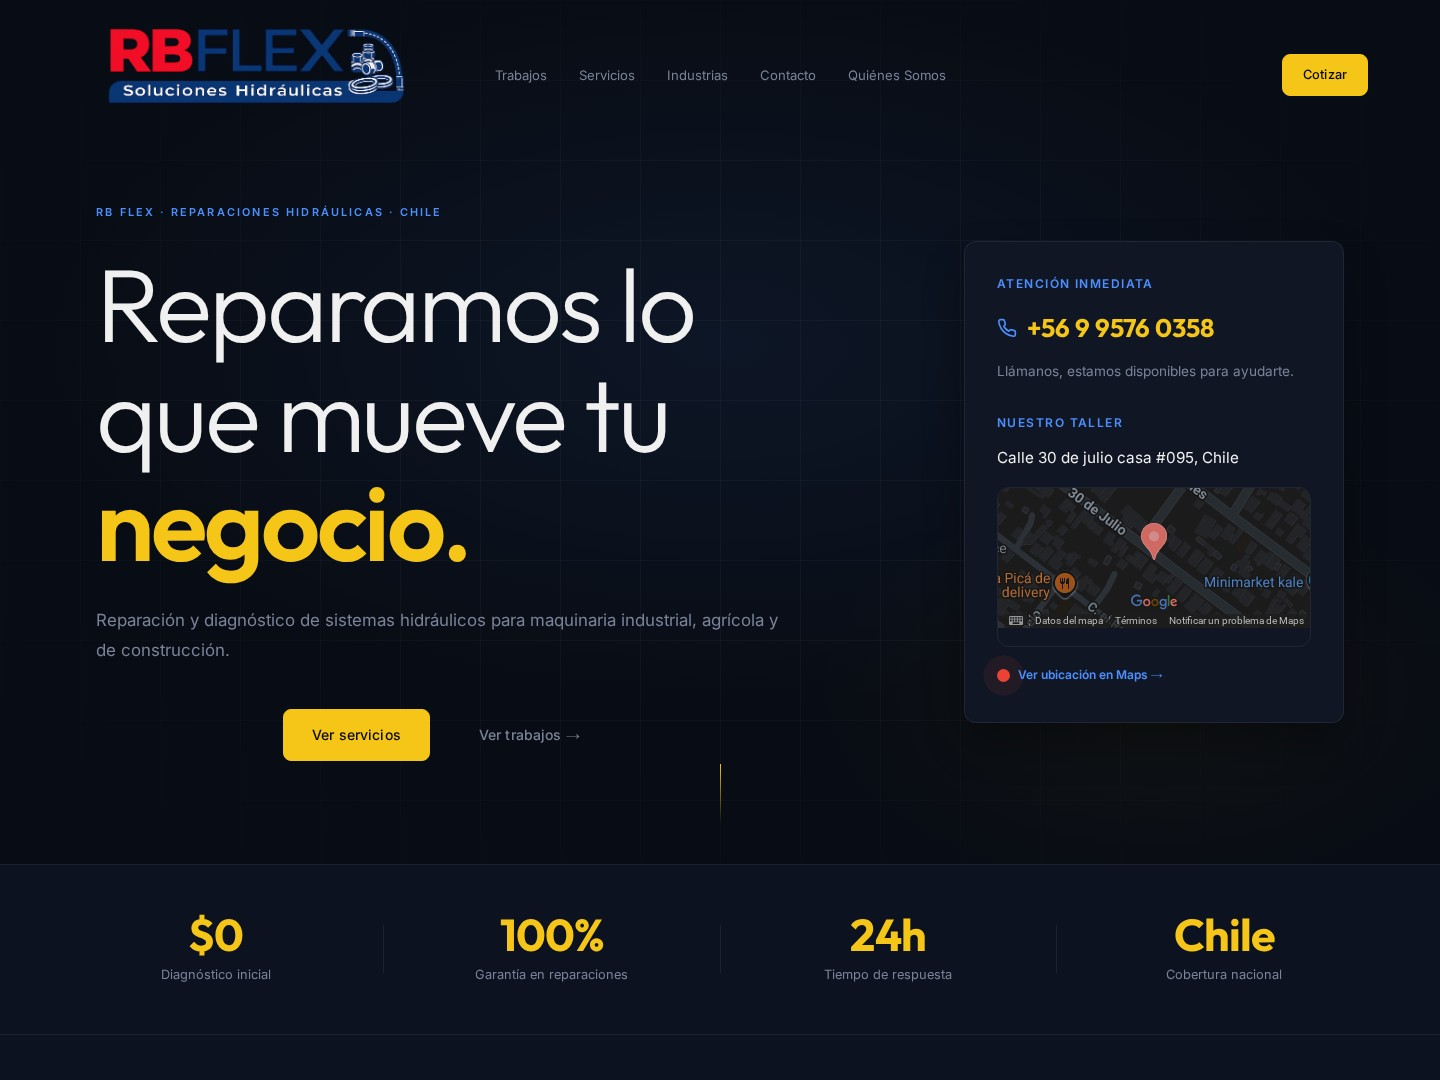
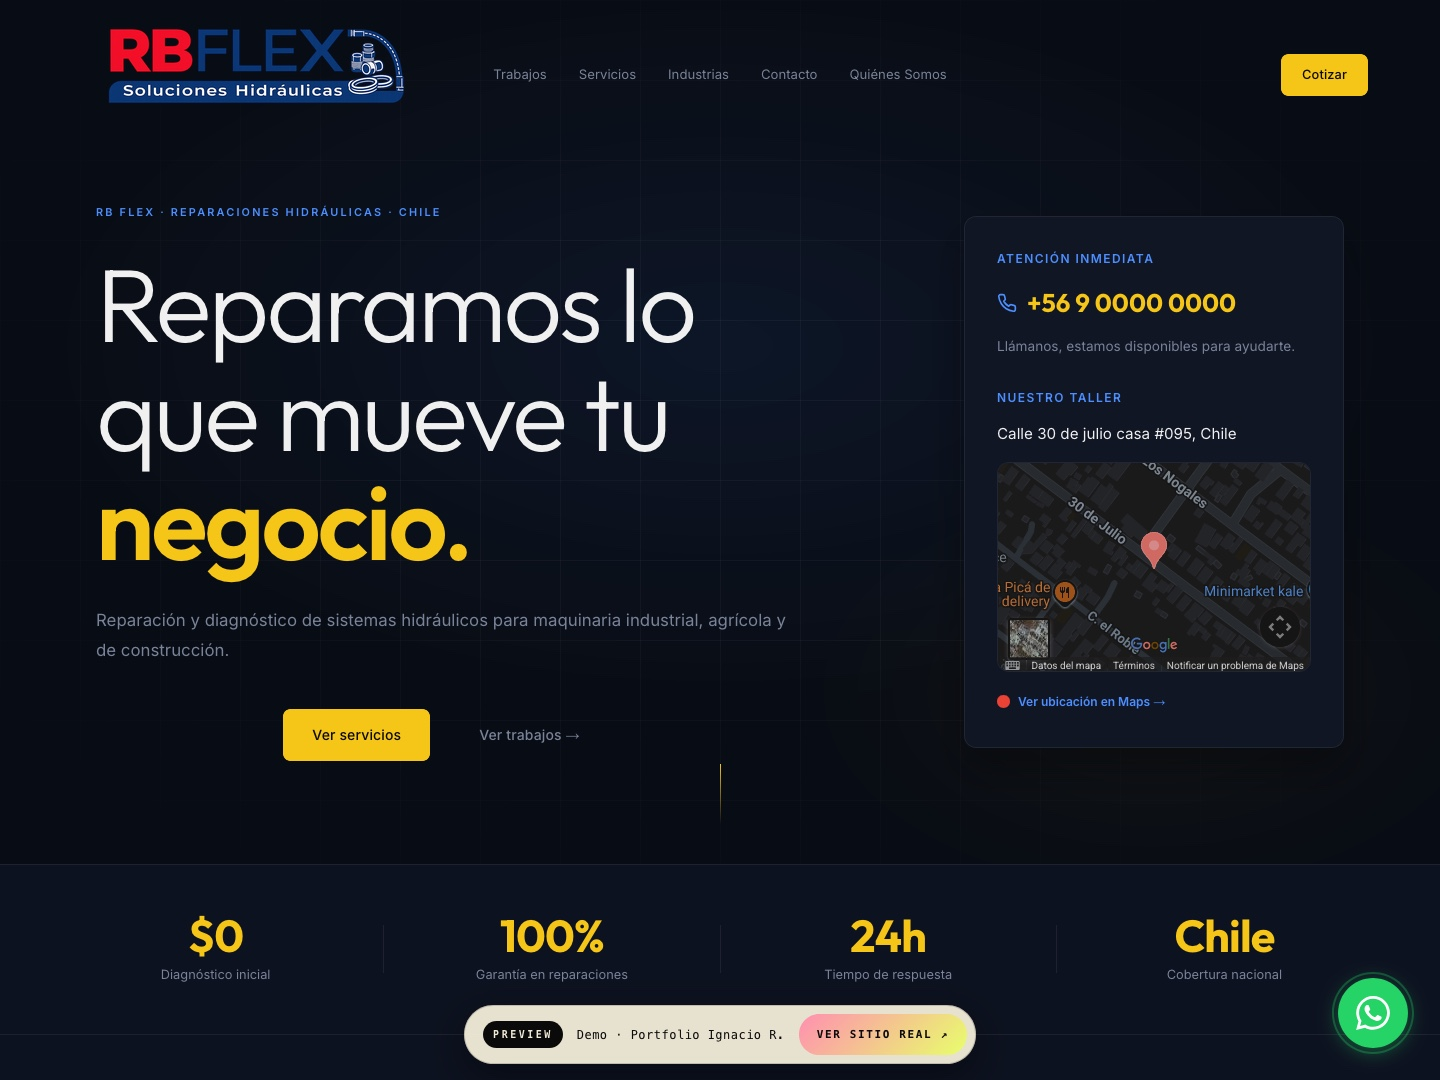
feat(rbflex): improve static project preview

diff --git a/public/projects/rbflex/index.html b/public/projects/rbflex/index.html
@@ -58,8 +58,8 @@
         "alternateName": "RB Flex",
         "description": "Empresa especializada en reparación de sistemas hidráulicos: cilindros, bombas, centrales y motores hidráulicos. Diagnóstico sin costo, garantía total y atención en terreno.",
         "url": "https://rb-flex.com/",
-        "telephone": ["+56-9-9576-0358"],
-        "email": "contacto@rb-flex.com",
+        "telephone": ["+56 9 0000 0000"],
+        "email": "contacto@rbflex-demo.test",
         "foundingDate": "2024",
         "priceRange": "$$",
         "currenciesAccepted": "CLP",
@@ -87,9 +87,6 @@
             "opens": "08:00",
             "closes": "18:00"
           }
-        ],
-        "sameAs": [
-          "https://wa.me/56995760378"
         ],
         "hasOfferCatalog": {
           "@type": "OfferCatalog",
@@ -278,11 +275,11 @@
             <div class="q-contact-item">
               <span class="q-label">ATENCIÓN INMEDIATA</span>
               <div class="q-phones">
-                <a href="tel:+56995760358" class="q-phone" aria-label="Llamar al +56 9 9576 0358">
+                <a class="q-phone" role="link" aria-disabled="true" aria-label="Teléfono +56 9 0000 0000, deshabilitado en la demo">
                   <svg class="q-phone-icon" viewBox="0 0 24 24" width="20" height="20" fill="none" stroke="currentColor" stroke-width="2" stroke-linecap="round" stroke-linejoin="round" aria-hidden="true">
                     <path d="M22 16.92v3a2 2 0 0 1-2.18 2 19.79 19.79 0 0 1-8.63-3.07 19.5 19.5 0 0 1-6-6 19.79 19.79 0 0 1-3.07-8.67A2 2 0 0 1 4.11 2h3a2 2 0 0 1 2 1.72c.13.96.37 1.9.72 2.81a2 2 0 0 1-.45 2.11L8.09 9.91a16 16 0 0 0 6 6l1.27-1.27a2 2 0 0 1 2.11-.45c.91.35 1.85.59 2.81.72A2 2 0 0 1 22 16.92z"/>
                   </svg>
-                  <span>+56 9 9576 0358</span>
+                  <span>+56 9 0000 0000</span>
                 </a>
               </div>
               <p class="q-sub">Llámanos, estamos disponibles para ayudarte.</p>
@@ -293,14 +290,14 @@
               <div class="q-map-embed map-clickable">
                 <iframe
                   src="https://maps.google.com/maps?q=-35.0643010,-71.1740284&hl=es&z=17&output=embed"
-                  width="100%" height="140" style="border:0;" allowfullscreen="" loading="lazy"
+                  width="100%" style="border:0;" allowfullscreen="" loading="lazy"
                   referrerpolicy="no-referrer-when-downgrade"
+                  tabindex="-1" inert
                   title="Mapa Calle 30 de julio"></iframe>
                 <a class="map-overlay-link map-overlay-link--sm"
-                   href="https://www.google.com/maps/dir/?api=1&destination=-35.0643010,-71.1740284"
-                   target="_blank"
-                   rel="noopener noreferrer"
-                   aria-label="Abrir ubicación en Google Maps">
+                   role="link"
+                   aria-disabled="true"
+                   aria-label="Ubicación en Google Maps, deshabilitada en la demo">
                   <span class="map-cta map-cta--sm">
                     <svg viewBox="0 0 24 24" fill="none" stroke="currentColor" stroke-width="2" stroke-linecap="round" stroke-linejoin="round" aria-hidden="true">
                       <path d="M21 10c0 7-9 13-9 13s-9-6-9-13a9 9 0 0 1 18 0z"/>
@@ -310,7 +307,7 @@
                   </span>
                 </a>
               </div>
-              <a href="https://www.google.com/maps/search/?api=1&query=-35.0643010,-71.1740284" target="_blank" rel="noopener noreferrer" class="q-map-link">Ver ubicación en Maps →</a>
+              <a class="q-map-link" role="link" aria-disabled="true">Ver ubicación en Maps →</a>
             </div>
           </div>
         </div>
@@ -544,14 +541,15 @@
           allowfullscreen=""
           loading="lazy"
           referrerpolicy="no-referrer-when-downgrade"
+          tabindex="-1"
+          inert
           title="Ubicación de RB Flex"
           aria-label="Mapa de ubicación de RB Flex"
         ></iframe>
         <a class="map-overlay-link"
-           href="https://www.google.com/maps/dir/?api=1&destination=-35.0643010,-71.1740284"
-           target="_blank"
-           rel="noopener noreferrer"
-           aria-label="Abrir ubicación en Google Maps">
+           role="link"
+           aria-disabled="true"
+           aria-label="Ubicación en Google Maps, deshabilitada en la demo">
           <span class="map-cta">
             <svg viewBox="0 0 24 24" fill="none" stroke="currentColor" stroke-width="2" stroke-linecap="round" stroke-linejoin="round" aria-hidden="true">
               <path d="M21 10c0 7-9 13-9 13s-9-6-9-13a9 9 0 0 1 18 0z"/>
@@ -577,9 +575,9 @@
           <div class="contact-item">
             <svg viewBox="0 0 24 24" fill="none" stroke="currentColor" stroke-width="1.4"><path d="M22 16.92v3a2 2 0 01-2.18 2 19.79 19.79 0 01-8.63-3.07A19.5 19.5 0 013.07 13.5 19.79 19.79 0 010 4.82 2 2 0 012 2.64h3a2 2 0 012 1.72 12.84 12.84 0 00.7 2.81 2 2 0 01-.45 2.11L6.09 9.91a16 16 0 006 6l1.27-1.27a2 2 0 012.11-.45 12.84 12.84 0 002.81.7A2 2 0 0122 16.92z"/></svg>
             <div>
-              <strong>Teléfono / WhatsApp</strong>
+              <strong>Teléfono</strong>
               <div class="contact-phones">
-                <a href="tel:+56995760358">+56 9 9576 0358</a>
+                <a role="link" aria-disabled="true">+56 9 0000 0000</a>
               </div>
             </div>
           </div>
@@ -587,7 +585,7 @@
             <svg viewBox="0 0 24 24" fill="none" stroke="currentColor" stroke-width="1.4"><path d="M4 4h16c1.1 0 2 .9 2 2v12c0 1.1-.9 2-2 2H4c-1.1 0-2-.9-2-2V6c0-1.1.9-2 2-2z"/><polyline points="22,6 12,13 2,6"/></svg>
             <div>
               <strong>Email</strong>
-              <a href="mailto:contacto@rb-flex.com">contacto@rb-flex.com</a>
+              <a role="link" aria-disabled="true">contacto@rbflex-demo.test</a>
             </div>
           </div>
           <div class="contact-item">
@@ -597,6 +595,10 @@
               <span>Curicó, Chile</span>
             </div>
           </div>
+          <button type="button" id="cta-whatsapp" class="btn btn-whatsapp reveal reveal-delay-1" aria-disabled="true">
+            <svg viewBox="0 0 24 24" fill="currentColor"><path d="M17.472 14.382c-.297-.149-1.758-.867-2.03-.967-.273-.099-.471-.148-.67.15-.197.297-.767.966-.94 1.164-.173.199-.347.223-.644.075-.297-.15-1.255-.463-2.39-1.475-.883-.788-1.48-1.761-1.653-2.059-.173-.297-.018-.458.13-.606.134-.133.298-.347.446-.52.149-.174.198-.298.298-.497.099-.198.05-.371-.025-.52-.075-.149-.669-1.612-.916-2.207-.242-.579-.487-.5-.669-.51-.173-.008-.371-.01-.57-.01-.198 0-.52.074-.792.372-.272.297-1.04 1.016-1.04 2.479 0 1.462 1.065 2.875 1.213 3.074.149.198 2.096 3.2 5.077 4.487.709.306 1.262.489 1.694.625.712.227 1.36.195 1.871.118.571-.085 1.758-.719 2.006-1.413.248-.694.248-1.289.173-1.413-.074-.124-.272-.198-.57-.347m-5.421 7.403h-.004a9.87 9.87 0 01-5.031-1.378l-.361-.214-3.741.982.998-3.648-.235-.374a9.86 9.86 0 01-1.51-5.26c.001-5.45 4.436-9.884 9.888-9.884 2.64 0 5.122 1.03 6.988 2.898a9.825 9.825 0 012.893 6.994c-.003 5.45-4.437 9.884-9.885 9.884m8.413-18.297A11.815 11.815 0 0012.05 0C5.495 0 .16 5.335.157 11.892c0 2.096.547 4.142 1.588 5.945L.057 24l6.305-1.654a11.882 11.882 0 005.683 1.448h.005c6.554 0 11.89-5.335 11.893-11.893a11.821 11.821 0 00-3.48-8.413z"/></svg>
+            Cotizar por WhatsApp
+          </button>
         </div>
         <div class="contact-form reveal reveal-delay-1">
           <form id="contact-form">
@@ -619,6 +621,12 @@
             <div class="field-group">
               <label for="mensaje">Descripción del problema</label>
               <textarea id="mensaje" name="mensaje" rows="4" placeholder="Describe brevemente el equipo y el problema que presenta…" required></textarea>
+            </div>
+            <div class="field-group consent-group">
+              <label class="consent-label">
+                <input type="checkbox" id="consent" name="consent" required />
+                <span>He leído y acepto la <a role="link" aria-disabled="true">Política de Privacidad</a>. Autorizo el uso de mis datos para responder mi consulta.</span>
+              </label>
             </div>
             <button type="submit" class="btn btn-primary full-width" id="submit-btn">Enviar consulta al correo</button>
             <p id="form-feedback" class="form-feedback" role="status" aria-live="polite"></p>
@@ -683,9 +691,24 @@
         <a href="#servicios">Servicios</a>
         <a href="#trabajos">Trabajos</a>
         <a href="#contacto">Contacto</a>
+        <a role="link" aria-disabled="true">Privacidad</a>
       </nav>
     </div>
   </footer>
+
+  <!-- WhatsApp shell retained for production fidelity; deliberately inert in this demo. -->
+  <button
+    type="button"
+    id="wa-bubble"
+    class="wa-bubble visible"
+    aria-label="WhatsApp deshabilitado en la demo"
+    aria-disabled="true"
+  >
+    <svg class="wa-icon" viewBox="0 0 24 24" fill="currentColor">
+      <path d="M17.472 14.382c-.297-.149-1.758-.867-2.03-.967-.273-.099-.471-.148-.67.15-.197.297-.767.966-.94 1.164-.173.199-.347.223-.644.075-.297-.15-1.255-.463-2.39-1.475-.883-.788-1.48-1.761-1.653-2.059-.173-.297-.018-.458.13-.606.134-.133.298-.347.446-.52.149-.174.198-.298.298-.497.099-.198.05-.371-.025-.52-.075-.149-.669-1.612-.916-2.207-.242-.579-.487-.5-.669-.51-.173-.008-.371-.01-.57-.01-.198 0-.52.074-.792.372-.272.297-1.04 1.016-1.04 2.479 0 1.462 1.065 2.875 1.213 3.074.149.198 2.096 3.2 5.077 4.487.709.306 1.262.489 1.694.625.712.227 1.36.195 1.871.118.571-.085 1.758-.719 2.006-1.413.248-.694.248-1.289.173-1.413-.074-.124-.272-.198-.57-.347m-5.421 7.403h-.004a9.87 9.87 0 01-5.031-1.378l-.361-.214-3.741.982.998-3.648-.235-.374a9.86 9.86 0 01-1.51-5.26c.001-5.45 4.436-9.884 9.888-9.884 2.64 0 5.122 1.03 6.988 2.898a9.825 9.825 0 012.893 6.994c-.003 5.45-4.437 9.884-9.885 9.884m8.413-18.297A11.815 11.815 0 0012.05 0C5.495 0 .16 5.335.157 11.892c0 2.096.547 4.142 1.588 5.945L.057 24l6.305-1.654a11.882 11.882 0 005.683 1.448h.005c6.554 0 11.89-5.335 11.893-11.893a11.821 11.821 0 00-3.48-8.413z"/>
+    </svg>
+    <span class="wa-tooltip">¿Listo para cotizar?</span>
+  </button>
 
   <!-- Banner de preview del portfolio -->
   <div class="pp-preview-banner" role="region" aria-label="Preview del portfolio de Ignacio R.">

diff --git a/public/projects/rbflex/styles.css b/public/projects/rbflex/styles.css
@@ -161,7 +161,6 @@ section[id] { scroll-margin-top: 100px; }
   background: rgba(8,12,20,0.9);
   backdrop-filter: blur(16px);
   -webkit-backdrop-filter: blur(16px);
-  border-bottom: 1px solid var(--border);
 }
 .nav-inner {
   display: flex; align-items: center; justify-content: space-between;
@@ -308,10 +307,13 @@ section[id] { scroll-margin-top: 100px; }
   overflow: hidden;
   border: 1px solid var(--border);
   margin-bottom: 16px;
-  height: 160px;
+  height: clamp(180px, 18vw, 210px);
 }
 .q-map-embed iframe { 
   display: block; 
+  width: 100%;
+  height: 100%;
+  pointer-events: none;
   filter: invert(90%) hue-rotate(180deg) saturate(0.9) brightness(0.85);
   transition: filter var(--transition);
 }
@@ -873,6 +875,7 @@ section[id] { scroll-margin-top: 100px; }
 .map-wrapper iframe {
   width: 100%;
   height: 480px;
+  pointer-events: none;
   border-radius: var(--radius);
   border: 1px solid var(--border) !important;
   filter: invert(90%) hue-rotate(180deg) saturate(0.9) brightness(0.85);
@@ -953,6 +956,27 @@ section[id] { scroll-margin-top: 100px; }
 .footer-inner {
   display: flex; align-items: center; justify-content: space-between; flex-wrap: wrap; gap: 16px;
 }
+.consent-group { margin-top: 4px; }
+.consent-label {
+  display: flex;
+  align-items: flex-start;
+  gap: 10px;
+  font-size: 0.78rem;
+  color: var(--text-secondary);
+  cursor: pointer;
+  line-height: 1.5;
+}
+.consent-label input[type="checkbox"] {
+  margin-top: 2px;
+  flex-shrink: 0;
+  width: 16px;
+  height: 16px;
+  accent-color: var(--accent);
+  cursor: pointer;
+}
+.consent-label a { color: var(--accent); text-decoration: underline; }
+.consent-label a:hover { color: var(--accent-2); }
+
 .footer-copy { font-size: 0.78rem; color: var(--text-muted); }
 .footer-links { display: flex; gap: 24px; }
 .footer-links a { font-size: 0.78rem; color: var(--text-muted); transition: color var(--transition); }
@@ -964,6 +988,7 @@ section[id] { scroll-margin-top: 100px; }
 .wa-bubble {
   position: fixed; bottom: 32px; right: 32px; z-index: 200;
   width: 70px; height: 70px; border-radius: 50%;
+  border: 0; padding: 0;
   background: var(--wa-green);
   display: flex; align-items: center; justify-content: center;
   box-shadow: 0 4px 20px rgba(37,211,102,0.4);

diff --git a/public/projects/rbflex/main.js b/public/projects/rbflex/main.js
@@ -1,8 +1,8 @@
 /* ─────────────────────────────────────────
    RB Flex — versión preview para el portfolio.
-   Solo animaciones de frontend: scroll reveal, navbar glass, slider y
-   resaltado de navegación. Sin WhatsApp, sin envío de formulario ni
-   integraciones externas — el formulario queda inerte (demo).
+   Solo animaciones de frontend: scroll reveal, navbar glass, slider,
+   resaltado de navegación y carcasa visual de WhatsApp. Sin envío de
+   formulario ni acciones comerciales — todos los controles quedan inertes.
 ───────────────────────────────────────── */
 (function () {
   'use strict';
@@ -171,6 +171,19 @@
     });
   }
 
+  /* ─── WHATSAPP — visible como en producción, pero sin acción ─── */
+  const waBubble = document.getElementById('wa-bubble');
+  if (waBubble) waBubble.classList.add('visible');
+
+  const contactSection = document.getElementById('contacto');
+  if (contactSection && waBubble) {
+    const contactObserver = new IntersectionObserver(
+      ([entry]) => waBubble.classList.toggle('wa-hidden', entry.isIntersecting),
+      { threshold: 0.15 }
+    );
+    contactObserver.observe(contactSection);
+  }
+
   /* ─── ACTIVE NAV LINK highlight ─── */
   const sections   = document.querySelectorAll('section[id]');
   const navAnchors = document.querySelectorAll('.nav-links a');
@@ -190,6 +203,18 @@
     { threshold: 0.4 }
   );
   sections.forEach((s) => secObserver.observe(s));
+
+  /* ─── ANCHOR LINKS — scroll sin cambiar la URL ─── */
+  document.querySelectorAll('a[href^="#"]').forEach((a) => {
+    a.addEventListener('click', (e) => {
+      const id = a.getAttribute('href').slice(1);
+      if (!id) return;
+      const target = document.getElementById(id);
+      if (!target) return;
+      e.preventDefault();
+      target.scrollIntoView({ behavior: 'smooth', block: 'start' });
+    });
+  });
 
   /* ─── FORMULARIO — inerte en la preview (sin envío real) ─── */
   const form = document.getElementById('contact-form');
